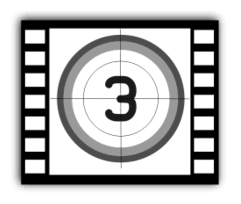
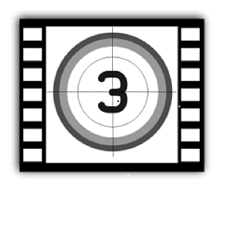
Fix Movie Resize

diff --git a/portfoliohome.html b/portfoliohome.html
@@ -68,7 +68,7 @@
                 <img src="computer.png">
                 <div>Portfolio Design</div>
                 <br>
-                <a href="www.google.com">View the Github Project</a>
+                <a href="https://github.com/anolde/mortimer-portfolio">View the Github Project</a>
             </div>
         </section>
     </main>

diff --git a/main.css b/main.css
@@ -44,9 +44,9 @@ main {
   align-self: flex-start;
   justify-self: stretch;
 }
-#movie {
+/* #movie {
   height:110%;
-}
+} */
 
 /* I intend to use classes one, two, and three, later on more when I put in media calls */
 .one {
